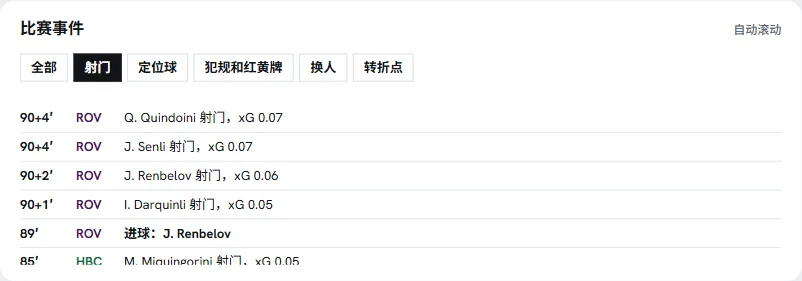
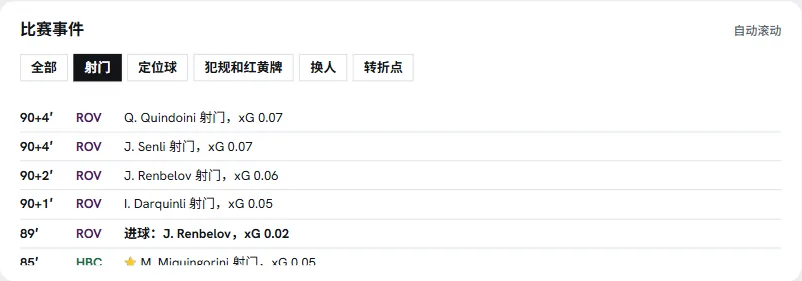
C16: xG on goal rows for analysts, team total row in the player table (#366)

diff --git a/apps/web/src/components/PlayerTable.tsx b/apps/web/src/components/PlayerTable.tsx
@@ -3,18 +3,22 @@
 // line (/players/stats, the verifier's StatCalculator); nothing is worked out here. Each header
 // carries its definition (metric.*), shown on hover and read out by screen readers.
 import { useState } from "react";
-import type { PlayerMatchStats, PlayerReport } from "@pivot/contracts";
+import type { PlayerReport } from "@pivot/contracts";
 import { useMatch, type Side } from "../data/match";
 import { usePersona, usePlayers } from "../data/persona";
 import { usePrefs, type MessageKey } from "../i18n";
 import Segmented from "./Segmented";
+import { useTeamStats } from "./TeamStats";
 
 export const PLAYER_COLS = ["minutes_played", "passes", "pass_accuracy_pct", "progressive_passes", "shots", "xg", "tackles_won", "interceptions", "rating"] as const;
 type Col = (typeof PLAYER_COLS)[number];
 
-const cell = (s: PlayerMatchStats, c: Col): string => {
+/** The team's own line, from the team stats (the same report as the team-stats card), not a sum made here. */
+const TEAM_COLS = new Set<Col>(["passes", "pass_accuracy_pct", "progressive_passes", "shots", "xg", "tackles_won", "interceptions"]);
+
+const cell = (s: Partial<Record<Col, number | null>>, c: Col): string => {
   const v = s[c];
-  if (v === null) return "–";
+  if (v === null || v === undefined) return "–";
   if (c === "xg") return v.toFixed(2);
   if (c === "rating") return v.toFixed(1);
   if (c === "pass_accuracy_pct") return `${Math.round(v)}%`;
@@ -41,6 +45,7 @@ export default function PlayerTable({ upTo }: { upTo: number | null }) {
   const [col, setCol] = useState<Col | null>("rating");
   const [asc, setAsc] = useState(false);
   const { data, loading, error } = usePlayers(match.match_id, upTo);
+  const team = useTeamStats(match.match_id, upTo).data?.scopes.find((s) => s.scope === "match")?.[side];
   if (!data) return <p className="muted" role="status">{t(error ? "pt.error" : loading ? "pt.loading" : "pt.error")}</p>;
   const rows = playerRows(data.players, side, col, asc);
   const sortBy = (c: Col) => {
@@ -81,6 +86,14 @@ export default function PlayerTable({ upTo }: { upTo: number | null }) {
               </tr>
             ))}
           </tbody>
+          {team && (
+            <tfoot>
+              <tr>
+                <th scope="row" className="pt-who">{t("pt.team", { team: teams[side].short_name })}</th>
+                {PLAYER_COLS.map((c) => <td key={c} className="num">{TEAM_COLS.has(c) ? cell({ [c]: team[c] ?? null }, c) : ""}</td>)}
+              </tr>
+            </tfoot>
+          )}
         </table>
       </div>
       <p className="muted pt-note">{t("pt.note")}</p>

diff --git a/apps/web/src/components/EventFeed.tsx b/apps/web/src/components/EventFeed.tsx
@@ -109,7 +109,9 @@ export default function EventFeed({ highlight }: { highlight: ReadonlySet<string
             className={`${key ? "key" : ""}${highlight.has(e.event_id) ? " on" : ""}${involves(e, prefs.focus_player_id) ? " mine" : ""}`}>
             <span className="t">{e.clock_label.replace(/'/g, "′")}</span>
             <span className={e.team === "home" ? "h" : "a"}>{teams[e.team].short_name}</span>
-            <span>{describe(e, playerName, t)}</span>
+            <span>{!fan && e.shot_outcome === "goal" && e.xg != null
+              ? t("feed.goalXg", { who: playerName(e.player_id), xg: e.xg.toFixed(2) })
+              : describe(e, playerName, t)}</span>
           </div>
         );
       })}

diff --git a/apps/web/src/styles/base.css b/apps/web/src/styles/base.css
@@ -788,6 +788,7 @@ details.more > summary small { font-weight: 600; text-transform: none; color: va
 .pt-table tbody tr:hover { background: var(--pv-paper); }
 .pt-table tbody tr.on { box-shadow: inset 4px 0 var(--pv-ink); }
 .pt-note { font-size: 13px; margin: 0; }
+.pt-table tfoot th, .pt-table tfoot td { border-top: 2px solid var(--pv-ink); font-weight: 700; }
 .ts-table { width: 100%; border-collapse: collapse; font-variant-numeric: tabular-nums; }
 .ts-table caption { text-align: left; font-weight: 700; font-size: var(--pv-fs-md); padding-bottom: 6px; }
 .ts-table td, .ts-table th { padding: 9px 0 8px; border-top: 1px solid var(--pv-hair); vertical-align: top; }

diff --git a/apps/web/src/i18n/messages/es.ts b/apps/web/src/i18n/messages/es.ts
@@ -332,6 +332,8 @@ export const es: Messages = {
   "feed.k.pivots": "Giros",
   "feed.none": "Todavía no hay eventos de este tipo.",
   "feed.fanNote": "Solo los grandes momentos: goles, rojas, cambios y lo que provocó los giros.",
+  "feed.goalXg": "Gol de {who}, xG {xg}",
+  "pt.team": "Total {team}",
   "ts.title": "Estadísticas de equipo",
   "ts.note": "Las mismas cifras que cita la IA y comprueba el verificador.",
   "ts.scope": "Parte del partido",

diff --git a/apps/web/src/i18n/messages/zh.ts b/apps/web/src/i18n/messages/zh.ts
@@ -331,6 +331,8 @@ export const zh: Messages = {
   "feed.k.pivots": "转折点",
   "feed.none": "暂时还没有这类事件。",
   "feed.fanNote": "只列大事：进球、红牌、换人，以及引发转折的那几下。",
+  "feed.goalXg": "进球：{who}，xG {xg}",
+  "pt.team": "{team} 全队",
   "ts.title": "球队数据",
   "ts.note": "和 AI 解释里引用、核对员核对的是同一套数字。",
   "ts.scope": "比赛的哪一段",

diff --git a/apps/web/src/i18n/messages/en.ts b/apps/web/src/i18n/messages/en.ts
@@ -331,6 +331,8 @@ export const en = {
   "feed.k.pivots": "Turning points",
   "feed.none": "No events of this kind yet.",
   "feed.fanNote": "The big moments only: goals, red cards, substitutions and what set the turning points off.",
+  "feed.goalXg": "Goal: {who}, xG {xg}",
+  "pt.team": "{team} total",
   "ts.title": "Team stats",
   "ts.note": "The same numbers the AI cites and the checker verifies.",
   "ts.scope": "Part of the match",
